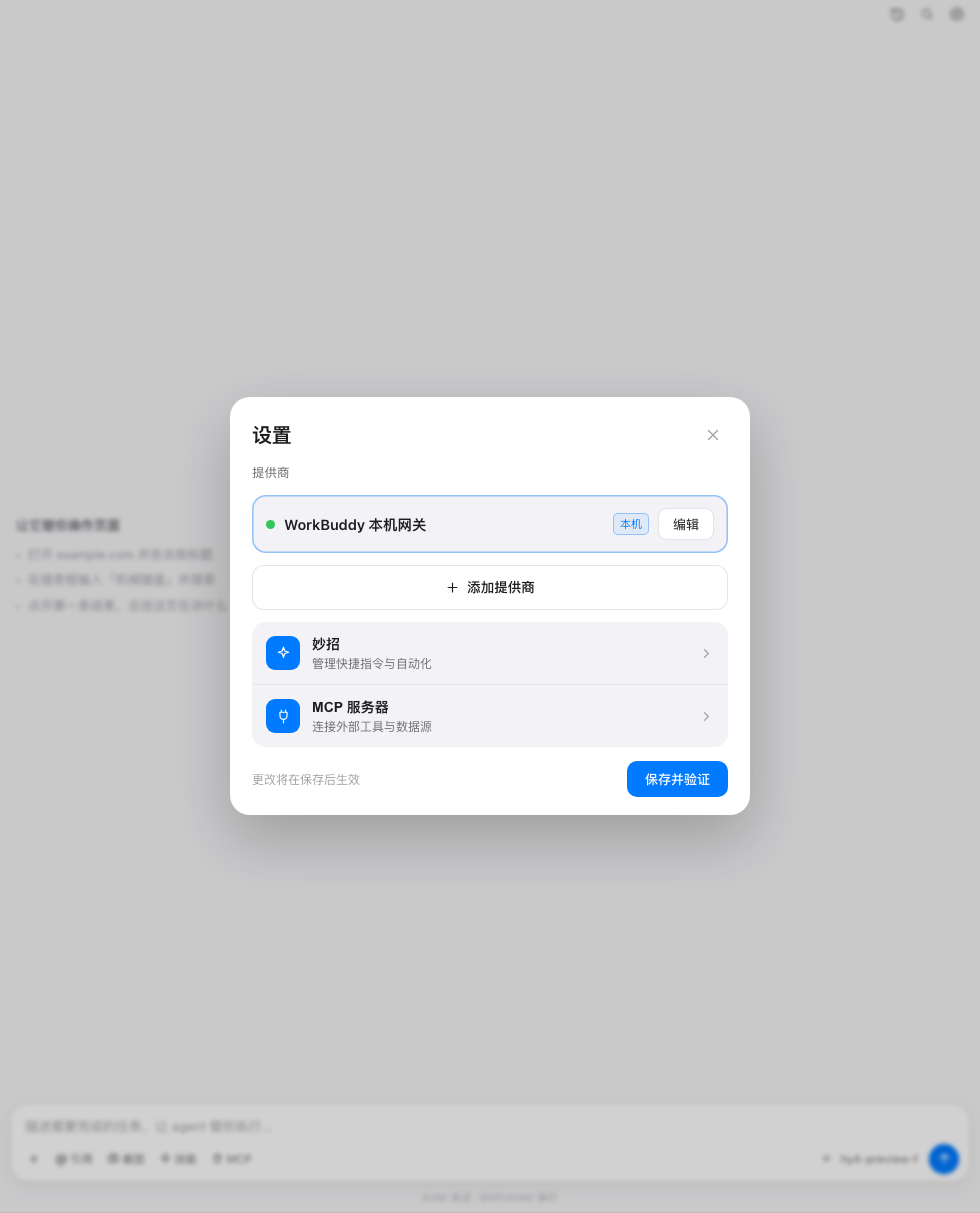
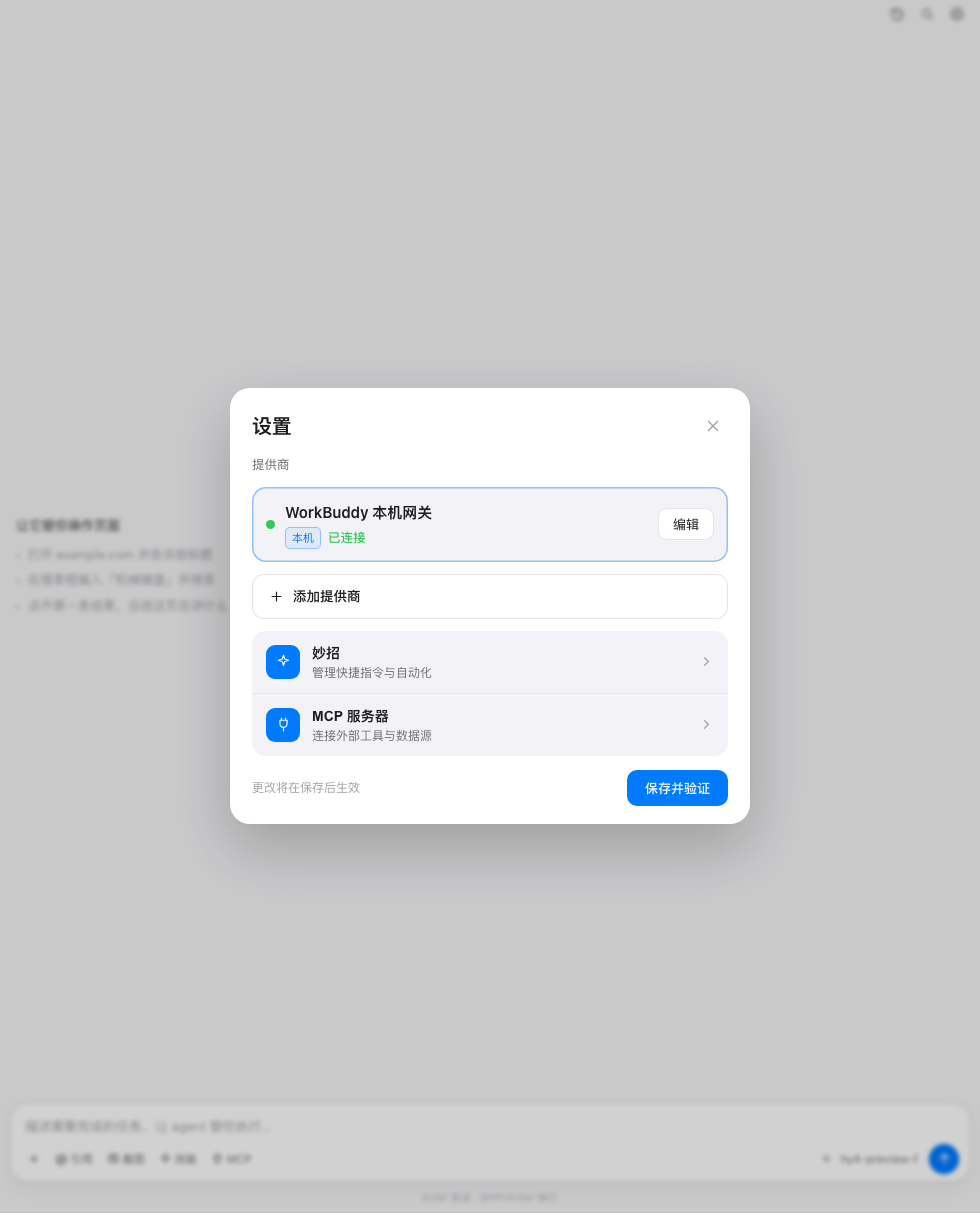
style: 设置弹窗对照设计稿补细节 — 提供商卡两行布局 + 已连接状态、添加按钮左对齐

Changed region(s): [[0.2449, 0.305, 0.7653, 0.6101], [0.2449, 0.6101, 0.7653, 0.7016]]

diff --git a/extension/sidepanel.js b/extension/sidepanel.js
@@ -1300,10 +1300,11 @@ function renderProvList() {
 
     const head = document.createElement('div');
     head.className = 'prov-head';
-    head.innerHTML = '<span class="prov-dot"></span><span class="prov-name"></span><span class="prov-tag"></span><button class="prov-edit">编辑</button>'
+    head.innerHTML = '<div class="prov-main"><span class="prov-dot"></span><div class="prov-info"><span class="prov-name"></span><span class="prov-meta"><span class="prov-tag"></span><span class="prov-status"></span></span></div></div><button class="prov-edit">编辑</button>'
       + (provState.list.length > 1 ? '<button class="prov-del">删除</button>' : '');
     head.querySelector('.prov-name').textContent = p.name;
     head.querySelector('.prov-tag').textContent = p.id === 'workbuddy' ? '本机' : '自定义';
+    head.querySelector('.prov-status').textContent = p.id === provState.active ? '已连接' : '';
 
     const body = document.createElement('div');
     body.className = 'prov-body hidden';

diff --git a/extension/sidepanel.css b/extension/sidepanel.css
@@ -1615,3 +1615,12 @@ body {
 .quote-wrap.hidden { display: none; }
 .quote-wrap .quote-bar { flex: 1; min-width: 0; margin: 0; }
 .quote-wrap .quote-switch { flex: none; }
+
+/* 提供商卡两行布局 + 状态（对照设计稿） */
+.settings .prov-main { display: flex; align-items: center; gap: 10px; flex: 1; min-width: 0; }
+.settings .prov-info { display: flex; flex-direction: column; gap: 3px; min-width: 0; }
+.settings .prov-name { flex: none; font-size: 15px; overflow: hidden; text-overflow: ellipsis; white-space: nowrap; }
+.settings .prov-meta { display: flex; align-items: center; gap: 7px; }
+.settings .prov-status { font-size: 12.5px; color: var(--ok); font-weight: 500; }
+.settings .prov-head { align-items: center; }
+.settings .set-add { justify-content: flex-start; padding-left: 16px; gap: 9px; }
